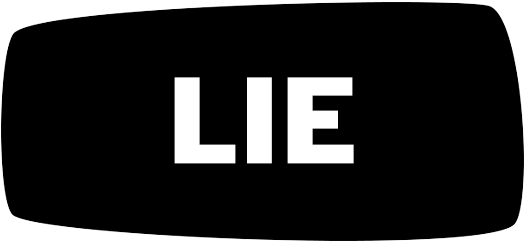
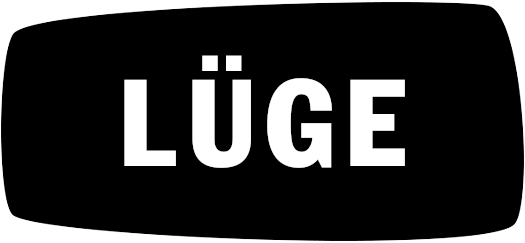
LieSwatter

Changed region(s): [[0.2133, 0.2016, 0.7924, 0.6914]]

diff --git a/main/pp1/lieswatter/script.js b/main/pp1/lieswatter/script.js
@@ -21033,9 +21033,9 @@ const $x = Et.View.extend({
 				<h3 id="lieswatter-lobby-text" class="lobby-text"></h3>
 
 				<form class="pure-form lobby-form">
-					<button type="submit" id="lieswatter-startgame" class="button-lieswatter button-xlarge pure-button pure-input-1" data-ans="1">EVERYBODY'S IN</button>
-					<button type="button" id="lieswatter-sameplayers" class="button-lieswatter button-xlarge pure-button pure-input-1 lieswatter-endbuttons" data-ans="1">SAME PLAYERS</button>
-					<button type="button" id="lieswatter-newplayers" class="button-lieswatter button-xlarge pure-button pure-input-1 lieswatter-endbuttons" data-ans="0">NEW PLAYERS</button>	
+					<button type="submit" id="lieswatter-startgame" class="button-lieswatter button-xlarge pure-button pure-input-1" data-ans="1">ALLE BEREIT</button>
+					<button type="button" id="lieswatter-sameplayers" class="button-lieswatter button-xlarge pure-button pure-input-1 lieswatter-endbuttons" data-ans="1">GLEICHE SPIELER</button>
+					<button type="button" id="lieswatter-newplayers" class="button-lieswatter button-xlarge pure-button pure-input-1 lieswatter-endbuttons" data-ans="0">ANDERE SPIELER</button>	
 				</form>
 			</div>
 		</div>
@@ -21048,15 +21048,15 @@ const $x = Et.View.extend({
 					<table style="margin-left:auto; margin-right:auto;">
 					<tr>
 						<td style="padding:10px; width=80px;">
-							<div style="text-align:center; font-family:'Ubuntu', sans-serif; color:white;"><span>RANK</span><br /></div>
+							<div style="text-align:center; font-family:'Ubuntu', sans-serif; color:white;"><span>RANG</span><br /></div>
 							<div style="text-align:center;"><span id="lieswatter-rank" class="ls-rank-button">0</span></div>
 						</td>
 						<td style="padding:10px; width=160px;">
-							<div style="text-align:center; font-family:'Ubuntu', sans-serif; color:white;"><span>SCORE</span><br /></div>
+							<div style="text-align:center; font-family:'Ubuntu', sans-serif; color:white;"><span>PUNKTE</span><br /></div>
 							<div style="text-align:center;"><span id="lieswatter-score" class="ls-score-button">0</span></div>
 						</td>
 						<td style="padding:10px; width=80px;">
-							<div style="text-align:center; font-family:'Ubuntu', sans-serif; color:white;"><span>STREAK</span><br /></div>
+							<div style="text-align:center; font-family:'Ubuntu', sans-serif; color:white;"><span>SERIE</span><br /></div>
 							<div style="text-align:center";><span id="lieswatter-combo" class="ls-rank-button">0</span></div>
 						</td>
 					</tr>
@@ -21064,7 +21064,7 @@ const $x = Et.View.extend({
 				</div>
 				
 				<div id="lieswatter-statement-container" class="centered">
-					<br/><span id="lieswatter-category" class="ls-category"></span><br /><span id="lieswatter-statement">WAITING FOR GAME TO START</span><br /><br />
+					<br/><span id="lieswatter-category" class="ls-category"></span><br /><span id="lieswatter-statement">WARTE AUF DEN SPIELSTART</span><br /><br />
 				</div>
 
 				<div id="lieswatter-true-container" class="centered">
@@ -21078,7 +21078,7 @@ const $x = Et.View.extend({
 		</div>
 
 		<div class="pt-page-off state-nothing lieswatter-page" style="background:#515151;" >
-			<br /><span>ANSWER ENTERED!<br /><br />WAITING FOR OTHER PLAYERS.</span><br />
+			<br /><span>ANTWORT ABGEGEBEN!<br /><br />WARTE AUF ANDERE SPIELER.</span><br />
 		</div>
 	</div>
 </div>
@@ -21106,7 +21106,7 @@ const zx = VC.extend({
         else if (i && i.split("_")[0] === "Lobby") {
             this.allowSendAnswer = !0, this.hideLobbyButtons();
             const a = i.split("_")[1];
-            a === "CanStart" ? (ye("#lieswatter-lobby-text").html("Press this button when everybody has joined"), ye("#lieswatter-startgame").show()) : a === "PostGame" && (ye("#lieswatter-lobby-text").html("What do you want to do?"), ye(".lieswatter-endbuttons").show()), this.showScreen(".state-lobby")
+            a === "CanStart" ? (ye("#lieswatter-lobby-text").html("Drücke diesen Knopf, wenn alle bereit sind"), ye("#lieswatter-startgame").show()) : a === "PostGame" && (ye("#lieswatter-lobby-text").html("Was möchtet ihr jetzt machen?"), ye(".lieswatter-endbuttons").show()), this.showScreen(".state-lobby")
         } else if (i === "Gameplay_Round" && n === i) {
             if (t.score === void 0) return;
             ye("#lieswatter-score").html(t.score.score), ye("#lieswatter-combo").html(t.score.combo), Number(t.score.place) >= 0 ? ye("#lieswatter-rank").html(t.score.place + 1) : ye("#lieswatter-rank").html("-"), t.statement !== void 0 && t.statement.text !== void 0 && (ye("#lieswatter-category").html(t.statement.category), ye("#lieswatter-statement").html(t.statement.text)), t.answer !== void 0 && t.answer >= 0 || t.statement && t.statement.text === this.lastQuestion ? (this.showScreen(".state-nothing"), this.lastQuestion = t.statement.text) : (this.allowSendAnswer = !0, this.showScreen(".state-answer"))
